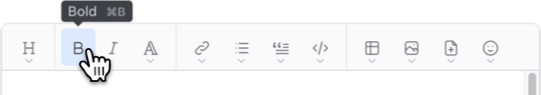
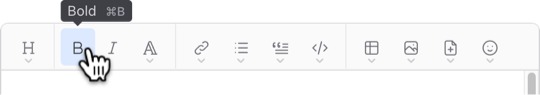
Add high DPI toolbar images for README

diff --git a/packages/react/README.md b/packages/react/README.md
@@ -6,9 +6,7 @@ Wysimark supports 100% of the CommonMark and GFM Markdown spec.
 
 It has clean modern design, great usability, and features serverless image and file uploads with image resizing.
 
-<img src="https://raw.githubusercontent.com/portive/wysimark/main/assets/readme/editor-preview@1x.jpg" 
-     srcset="https://raw.githubusercontent.com/portive/wysimark/main/assets/readme/editor-preview.jpg 1x, https://raw.githubusercontent.com/portive/wysimark/main/assets/readme/editor-preview@2x.jpg 2x"
-     alt="Preview of Wysimark Editor">
+<img src="https://raw.githubusercontent.com/portive/wysimark/main/assets/readme/editor-preview@2x.jpg" width="545" height="504" alt="Preview of Wysimark Editor">
 
 Learn more about the Wysimark Markdown Editor at the [Wysimark Editor Home Page](https://wysimark.com).
 
@@ -53,6 +51,8 @@ Wysimark supports optional serverless file and image uploading and image resizin
 - Keyboard shortcuts for every Markdown Feature
 - Context menus for resizing images
 - Context menus for manipulating tables
+
+<img src="https://raw.githubusercontent.com/portive/wysimark/main/assets/readme/editor-preview.jpg" >
 
 ## All Modern Browser Compatibility
 
